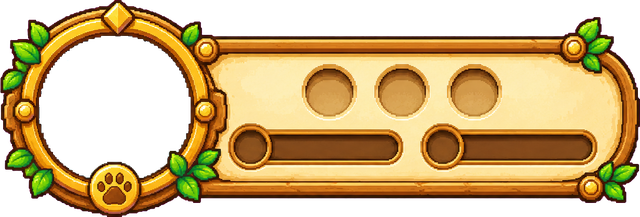
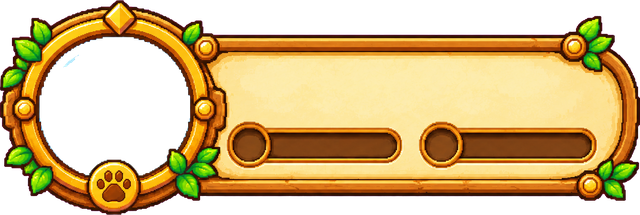
0.5.4: status panel without heart sockets

Changed region(s): [[0.0, 0.0, 1.0, 1.0]]

diff --git a/docs/roadmap.html b/docs/roadmap.html
@@ -63,7 +63,7 @@ tr:last-child td { border-bottom:0 }
 </style>
 <div class="wrap">
  <div class="top">
-  <p class="eyebrow">Game version 0.5.3 · updated 2026-10-18</p>
+  <p class="eyebrow">Game version 0.5.4 · updated 2026-10-18</p>
   <h1>PETOPIA Roadmap</h1>
   <p class="rule">Work follows the phases in order. A new request becomes a task in the phase it belongs to (or the Inbox until placed) and is logged with its date.</p>
   <p class="meta">Source: PETOPIA V2 Complete GDD (docs/sources/v2), V1 GDD (docs/sources), user reviews</p>
@@ -179,7 +179,7 @@ tr:last-child td { border-bottom:0 }
  </section>
  <section class="phase" id="inbox">
   <header class="ph"><div class="phid">+</div><div class="phtext"><h2>Requests log</h2><p>Every new request, with the phase it was added to.</p></div></header>
-  <div class="tablebox"><table><thead><tr><th>Date</th><th>Request</th><th>Placed in</th></tr></thead><tbody><tr><td class="num">2026-10-18</td><td>Context buttons, Foxy digging, crates in the bag, clearer Double Jump</td><td>P1</td></tr><tr><td class="num">2026-10-18</td><td>Castlevania-style visible room connections, challenge, living environment, nicer Menu button</td><td>P1</td></tr><tr><td class="num">2026-10-18</td><td>Project plan page with phases and tasks</td><td>Done: this page</td></tr><tr><td class="num">2026-10-18</td><td>Continue P1 (context buttons, digging, crates, Double Jump) - done in 0.3.2</td><td>P1</td></tr><tr><td class="num">2026-10-18</td><td>Room chip showed region twice, stretched with a gap</td><td>P1 (done)</td></tr><tr><td class="num">2026-10-18</td><td>Continue P1: visible connections, map, challenge</td><td>P1 (done in 0.3.3)</td></tr><tr><td class="num">2026-10-18</td><td>Map looked like boxes; should be a real painted map in the game style</td><td>P1 (done in 0.3.4)</td></tr><tr><td class="num">2026-10-18</td><td>Continue P1: challenge room, pet puzzles, living world, Menu button, minimap</td><td>P1 (done in 0.3.5)</td></tr><tr><td class="num">2026-10-18</td><td>Play-through: stuck joystick, confusing respawn, cave circles, lantern ring, empty signs, crates unclear, Continue goes to picnic, door markers, crank bridge, boring tower without challenge, camera, tower-to-forest connection, more challenge</td><td>P1 (10 tasks)</td></tr><tr><td class="num">2026-10-18</td><td>iPhone 14: side strips in portrait; rotate prompt needs an animated phone</td><td>P1</td></tr><tr><td class="num">2026-10-18</td><td>Turn card small/no padding; minimap looks bad; what is the picnic?</td><td>P1 (done in 0.3.7)</td></tr><tr><td class="num">2026-10-18</td><td>More interactive and longer adventure (gentle start, quests, mini-games, clear progress, XP, shop) and finishing the My Pet room</td><td>New phases P1B and P1C</td></tr><tr><td class="num">2026-10-18</td><td>My Pet should be a full Tamagotchi: many animations, fetch with ball in mouth, foods from the shop, rest, visible growth, pet condition affects the adventure</td><td>P1C first (A51 design decision)</td></tr><tr><td class="num">2026-10-18</td><td>Sign text misaligned; Foxy left behind in tower; pickups (food, jump carrots, keys, clues); better character animation</td><td>P1, P1B, P1C</td></tr><tr><td class="num">2026-10-18</td><td>Tower looks awful (bordered block); thorn gate asks for something that can&#x27;t be found</td><td>P1 (done in 0.3.9)</td></tr><tr><td class="num">2026-10-18</td><td>Tower looks pasted (floating squares), animals hanging, more animals, two-way crank, map path unclear, reset progress, bag scrolling and redesign, use items with in-world animation; loading screen needs Play now and What&#x27;s new button</td><td>P0, P1, P1C</td></tr><tr><td class="num">2026-10-18</td><td>Map fog looks like white blobs; sleep candidate frames cut badly; verify ball-in-mouth and scale next to the child; publish 0.4.0</td><td>P1, P1C</td></tr><tr><td class="num">2026-10-18</td><td>Foxy candidates look different from each other and from the in-game pixel Foxy (eyebrows, sleep style); keep one consistent Foxy in home and adventure; verify ball in mouth</td><td>P1C</td></tr><tr><td class="num">2026-10-18</td><td>Keep the yellow sun ball everywhere; sleeping Foxy facing left is fine</td><td>P1C (decision)</td></tr><tr><td class="num">2026-10-18</td><td>Catch the Ball in a small window, bar not designed; should be full screen and landscape only; turn-phone picture should rotate with the phone</td><td>P1, P1C</td></tr><tr><td class="num">2026-10-18</td><td>Crates can&#x27;t be taken to later rooms; feather in the Hidden Cave unclear; found things should be in the bag; quest text unclear (basket); tower fall forces walking through thorns; room chip/hearts overlap after room change</td><td>P1, P1B (done in 0.4.2)</td></tr><tr><td class="num">2026-10-18</td><td>Stick keeps walking after letting go; birds fly backwards with the camera; switches should work both ways; map should show where to go; double jump glitchy; bag not updating (fixed in 0.4.2); exits need clear destination signs and themed gates; more friendly critters per environment</td><td>P1</td></tr><tr><td class="num">2026-10-18</td><td>Crate ghost always appears and asks to place right after picking up; want to keep crates in the bag; crank animation looks like building; black lines in the background again</td><td>P1 (done in 0.4.4)</td></tr><tr><td class="num">2026-10-18</td><td>Drawbridge with drawn post and ropes looks bad; don&#x27;t add makeshift shapes</td><td>P1 (done in 0.4.5)</td></tr><tr><td class="num">2026-10-18</td><td>Drink and pet animations; carry run looks weird (use normal run); move the child during the ball game; harder catch with moving target and smaller band</td><td>P1C (done in 0.4.6)</td></tr><tr><td class="num">2026-10-18</td><td>No sound at all: need menu, game, pet, room, child and Foxy sounds; feather should stay visible as collected, not disappear</td><td>P1, P1C (done in 0.4.7)</td></tr><tr><td class="num">2026-10-18</td><td>Settings too limited (minimap, hints, button sizes...); cave parallax looks like one moving background with a cut; layers in all maps; falling into water flicks back and forth</td><td>P1, P1C (done in 0.4.8; tower layers next)</td></tr><tr><td class="num">2026-10-18</td><td>No sound at all in 0.4.7 (desktop); main menu still shows old settings; version over Games button; bad shadow on main menu</td><td>P1C (done in 0.4.9)</td></tr><tr><td class="num">2026-10-18</td><td>Coins clipped at 3 digits; can&#x27;t tell how to finish (key?); Foxy should find things for you; tower doors and secret wall look pasted; crumble needs break animation; more animations overall</td><td>P1, P1B</td></tr><tr><td class="num">2026-10-18</td><td>Dig sound scratchy, harsh sounds; unclear arrow in mid-screen; jump stutter; minimap and hints off by default; room name only on entry; nicer pet status; guide arrow optional</td><td>P1 (done in 0.5.0)</td></tr><tr><td class="num">2026-10-18</td><td>&#x27;To River Crossing&#x27; label always shown next to the arrow; crate card text under the button; double jump feels strange</td><td>P1 (done in 0.5.1; double jump explained)</td></tr><tr><td class="num">2026-10-18</td><td>Stuck at the cellar button (needs standing on it): let Foxy hold it; Foxy lags, falls and reappears ahead; feather flight art cut off</td><td>P1, P1B (done in 0.5.2)</td></tr><tr><td class="num">2026-10-18</td><td>Status card looks pasted on the old plank: new design from scratch; smaller animated fox in the circle; softer sound when moving between places; is the arrow still there</td><td>P1 (done in 0.5.3)</td></tr></tbody></table></div>
+  <div class="tablebox"><table><thead><tr><th>Date</th><th>Request</th><th>Placed in</th></tr></thead><tbody><tr><td class="num">2026-10-18</td><td>Context buttons, Foxy digging, crates in the bag, clearer Double Jump</td><td>P1</td></tr><tr><td class="num">2026-10-18</td><td>Castlevania-style visible room connections, challenge, living environment, nicer Menu button</td><td>P1</td></tr><tr><td class="num">2026-10-18</td><td>Project plan page with phases and tasks</td><td>Done: this page</td></tr><tr><td class="num">2026-10-18</td><td>Continue P1 (context buttons, digging, crates, Double Jump) - done in 0.3.2</td><td>P1</td></tr><tr><td class="num">2026-10-18</td><td>Room chip showed region twice, stretched with a gap</td><td>P1 (done)</td></tr><tr><td class="num">2026-10-18</td><td>Continue P1: visible connections, map, challenge</td><td>P1 (done in 0.3.3)</td></tr><tr><td class="num">2026-10-18</td><td>Map looked like boxes; should be a real painted map in the game style</td><td>P1 (done in 0.3.4)</td></tr><tr><td class="num">2026-10-18</td><td>Continue P1: challenge room, pet puzzles, living world, Menu button, minimap</td><td>P1 (done in 0.3.5)</td></tr><tr><td class="num">2026-10-18</td><td>Play-through: stuck joystick, confusing respawn, cave circles, lantern ring, empty signs, crates unclear, Continue goes to picnic, door markers, crank bridge, boring tower without challenge, camera, tower-to-forest connection, more challenge</td><td>P1 (10 tasks)</td></tr><tr><td class="num">2026-10-18</td><td>iPhone 14: side strips in portrait; rotate prompt needs an animated phone</td><td>P1</td></tr><tr><td class="num">2026-10-18</td><td>Turn card small/no padding; minimap looks bad; what is the picnic?</td><td>P1 (done in 0.3.7)</td></tr><tr><td class="num">2026-10-18</td><td>More interactive and longer adventure (gentle start, quests, mini-games, clear progress, XP, shop) and finishing the My Pet room</td><td>New phases P1B and P1C</td></tr><tr><td class="num">2026-10-18</td><td>My Pet should be a full Tamagotchi: many animations, fetch with ball in mouth, foods from the shop, rest, visible growth, pet condition affects the adventure</td><td>P1C first (A51 design decision)</td></tr><tr><td class="num">2026-10-18</td><td>Sign text misaligned; Foxy left behind in tower; pickups (food, jump carrots, keys, clues); better character animation</td><td>P1, P1B, P1C</td></tr><tr><td class="num">2026-10-18</td><td>Tower looks awful (bordered block); thorn gate asks for something that can&#x27;t be found</td><td>P1 (done in 0.3.9)</td></tr><tr><td class="num">2026-10-18</td><td>Tower looks pasted (floating squares), animals hanging, more animals, two-way crank, map path unclear, reset progress, bag scrolling and redesign, use items with in-world animation; loading screen needs Play now and What&#x27;s new button</td><td>P0, P1, P1C</td></tr><tr><td class="num">2026-10-18</td><td>Map fog looks like white blobs; sleep candidate frames cut badly; verify ball-in-mouth and scale next to the child; publish 0.4.0</td><td>P1, P1C</td></tr><tr><td class="num">2026-10-18</td><td>Foxy candidates look different from each other and from the in-game pixel Foxy (eyebrows, sleep style); keep one consistent Foxy in home and adventure; verify ball in mouth</td><td>P1C</td></tr><tr><td class="num">2026-10-18</td><td>Keep the yellow sun ball everywhere; sleeping Foxy facing left is fine</td><td>P1C (decision)</td></tr><tr><td class="num">2026-10-18</td><td>Catch the Ball in a small window, bar not designed; should be full screen and landscape only; turn-phone picture should rotate with the phone</td><td>P1, P1C</td></tr><tr><td class="num">2026-10-18</td><td>Crates can&#x27;t be taken to later rooms; feather in the Hidden Cave unclear; found things should be in the bag; quest text unclear (basket); tower fall forces walking through thorns; room chip/hearts overlap after room change</td><td>P1, P1B (done in 0.4.2)</td></tr><tr><td class="num">2026-10-18</td><td>Stick keeps walking after letting go; birds fly backwards with the camera; switches should work both ways; map should show where to go; double jump glitchy; bag not updating (fixed in 0.4.2); exits need clear destination signs and themed gates; more friendly critters per environment</td><td>P1</td></tr><tr><td class="num">2026-10-18</td><td>Crate ghost always appears and asks to place right after picking up; want to keep crates in the bag; crank animation looks like building; black lines in the background again</td><td>P1 (done in 0.4.4)</td></tr><tr><td class="num">2026-10-18</td><td>Drawbridge with drawn post and ropes looks bad; don&#x27;t add makeshift shapes</td><td>P1 (done in 0.4.5)</td></tr><tr><td class="num">2026-10-18</td><td>Drink and pet animations; carry run looks weird (use normal run); move the child during the ball game; harder catch with moving target and smaller band</td><td>P1C (done in 0.4.6)</td></tr><tr><td class="num">2026-10-18</td><td>No sound at all: need menu, game, pet, room, child and Foxy sounds; feather should stay visible as collected, not disappear</td><td>P1, P1C (done in 0.4.7)</td></tr><tr><td class="num">2026-10-18</td><td>Settings too limited (minimap, hints, button sizes...); cave parallax looks like one moving background with a cut; layers in all maps; falling into water flicks back and forth</td><td>P1, P1C (done in 0.4.8; tower layers next)</td></tr><tr><td class="num">2026-10-18</td><td>No sound at all in 0.4.7 (desktop); main menu still shows old settings; version over Games button; bad shadow on main menu</td><td>P1C (done in 0.4.9)</td></tr><tr><td class="num">2026-10-18</td><td>Coins clipped at 3 digits; can&#x27;t tell how to finish (key?); Foxy should find things for you; tower doors and secret wall look pasted; crumble needs break animation; more animations overall</td><td>P1, P1B</td></tr><tr><td class="num">2026-10-18</td><td>Dig sound scratchy, harsh sounds; unclear arrow in mid-screen; jump stutter; minimap and hints off by default; room name only on entry; nicer pet status; guide arrow optional</td><td>P1 (done in 0.5.0)</td></tr><tr><td class="num">2026-10-18</td><td>&#x27;To River Crossing&#x27; label always shown next to the arrow; crate card text under the button; double jump feels strange</td><td>P1 (done in 0.5.1; double jump explained)</td></tr><tr><td class="num">2026-10-18</td><td>Stuck at the cellar button (needs standing on it): let Foxy hold it; Foxy lags, falls and reappears ahead; feather flight art cut off</td><td>P1, P1B (done in 0.5.2)</td></tr><tr><td class="num">2026-10-18</td><td>Status card looks pasted on the old plank: new design from scratch; smaller animated fox in the circle; softer sound when moving between places; is the arrow still there</td><td>P1 (done in 0.5.3)</td></tr><tr><td class="num">2026-10-18</td><td>Hearts inside circles look bad: keep only the hearts</td><td>P1 (done in 0.5.4)</td></tr></tbody></table></div>
  </section>
 </div>
 <script>

diff --git a/docs/change-log.md b/docs/change-log.md
@@ -1,3 +1,7 @@
+## 2026-10-18 · Status panel without heart sockets (0.5.4)
+
+- Codex redrew the hud-v2 panel without sockets (status2-raw.png); slots re-measured.
+
 ## 2026-10-18 · New status panel (0.5.3)
 
 - hud-v2 Codex sheet sliced; slot positions in slots.json; portrait window cut out and a pixel Foxy (pet-v2 pet frames) animates in a clipped sky disc behind the frame; three-slice meter fills. Fix: weakly cached textures freed before render drew white; meter textures are now held. Door transitions play ui_open instead of the door creak.

diff --git a/release-notes/v0.5.4.md b/release-notes/v0.5.4.md
@@ -1,0 +1,3 @@
+# PETOPIA 0.5.4 · Cleaner hearts
+
+- The hearts on the status panel sit freely on the parchment (no round holes behind them).
